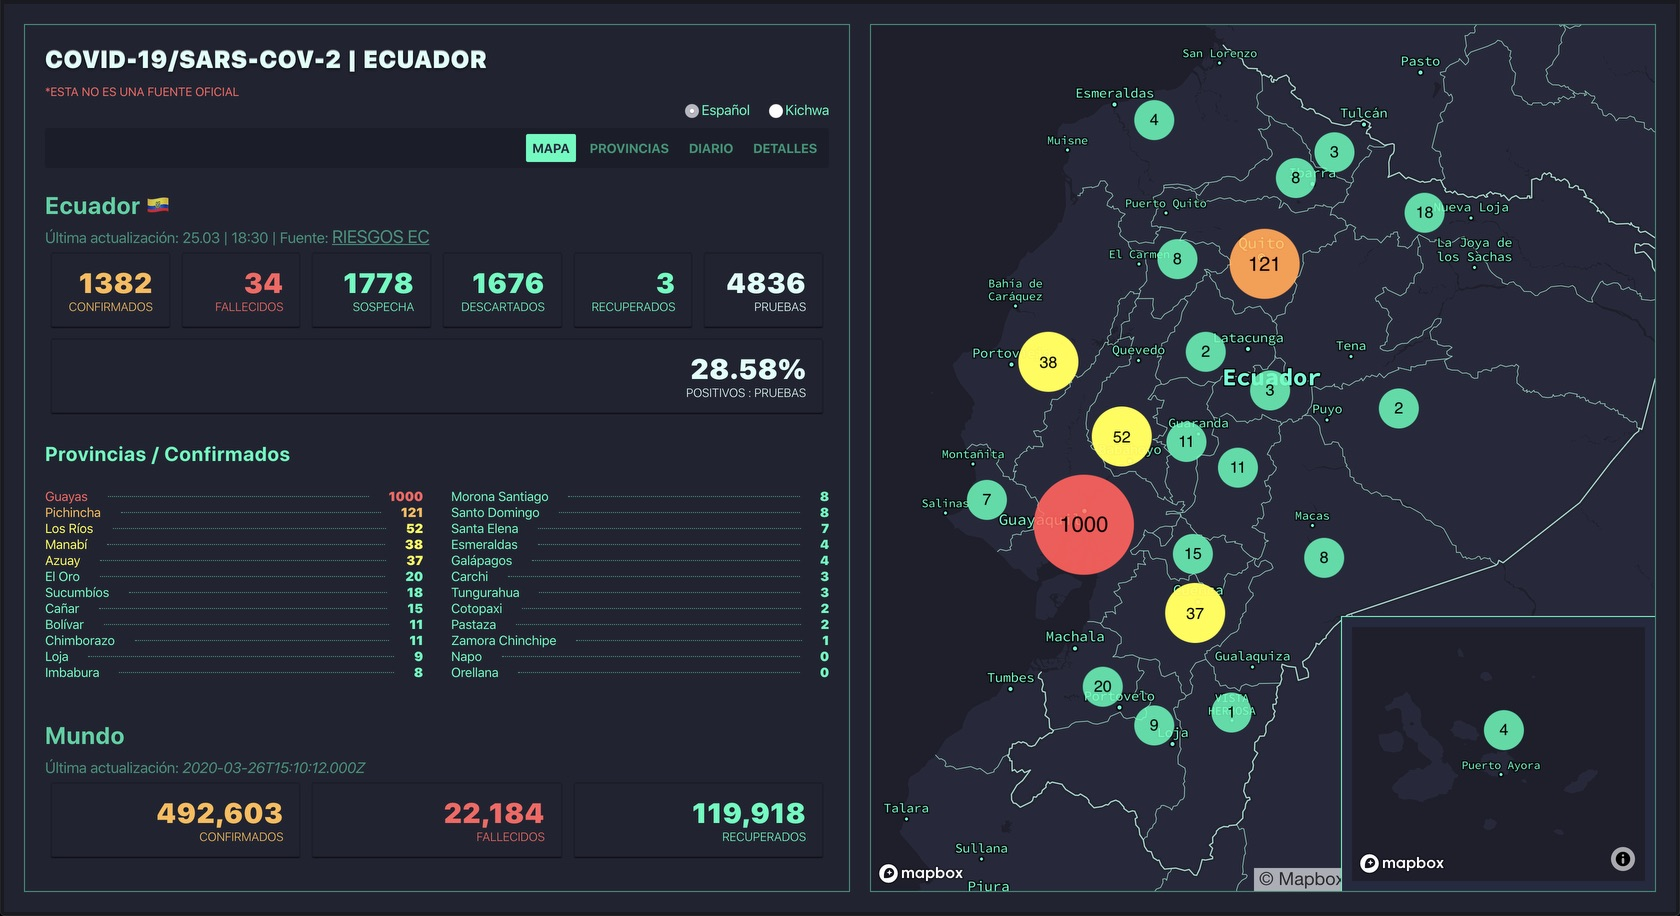
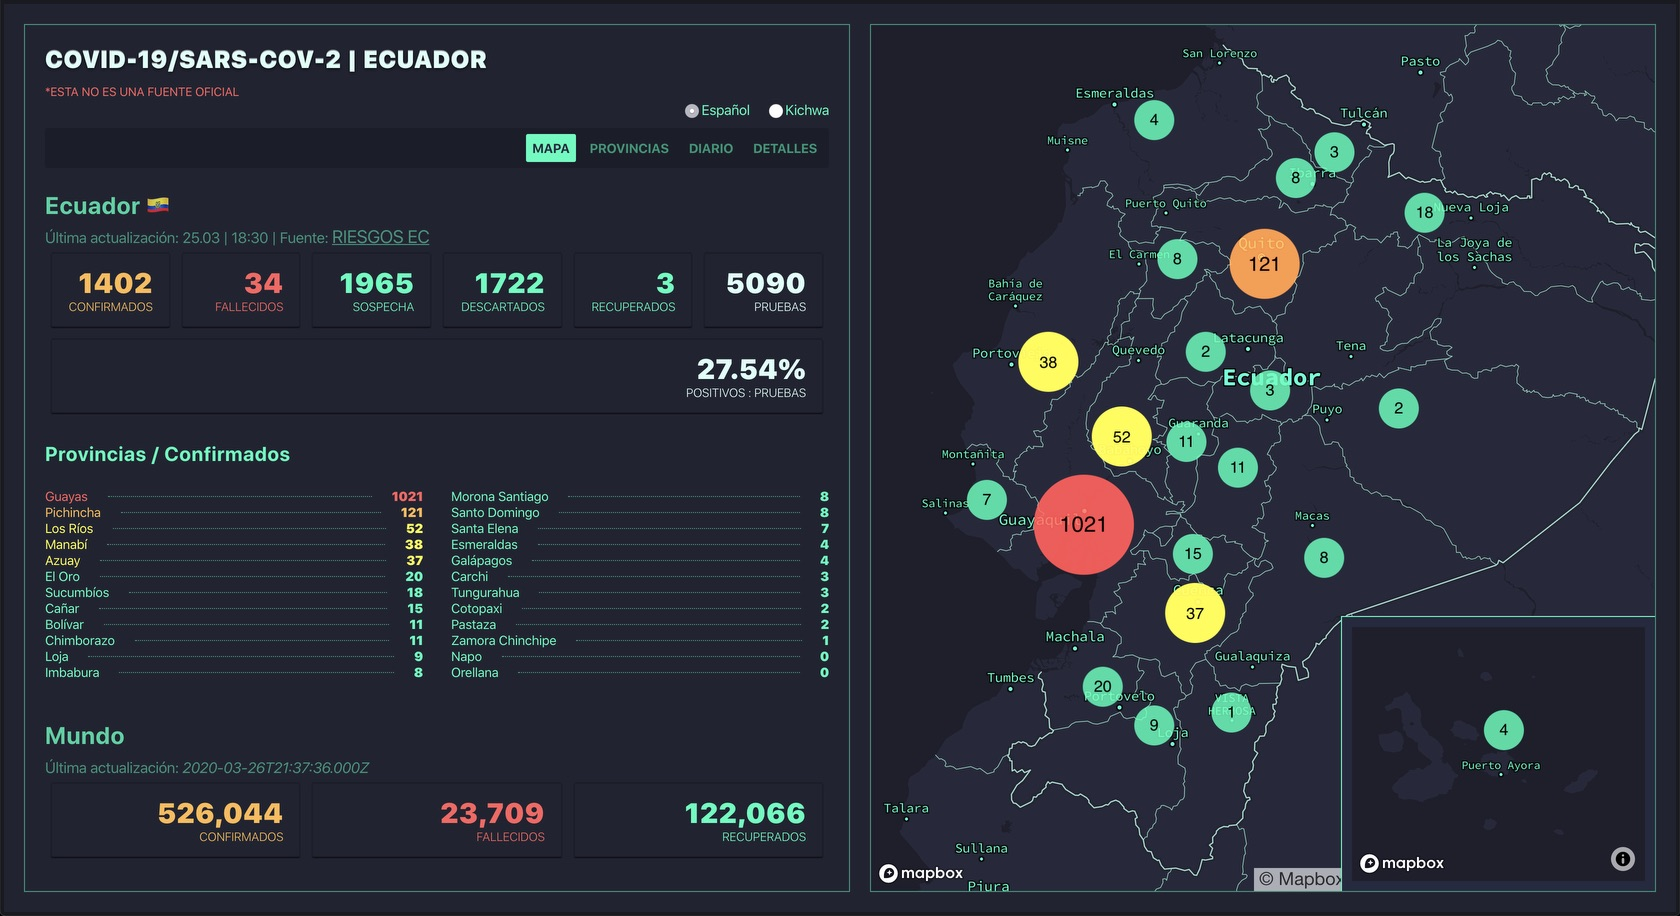
Add new data

diff --git a/src/components/Ecuador.js b/src/components/Ecuador.js
@@ -16,12 +16,12 @@ const Ecuador = ({ t }) => {
   });
 
   const dataTotals = {
-    confirmed: 1382,
+    confirmed: 1402,
     deaths: 34,
-    suspicious: 1778,
-    negatives: 1676,
+    suspicious: 1965,
+    negatives: 1722,
     recoveries: 3,
-    tests: 4836
+    tests: 5090
   };
 
   var result = (dataTotals.confirmed / dataTotals.tests) * 100;

diff --git a/src/components/Charts.js b/src/components/Charts.js
@@ -176,7 +176,7 @@ export function DetailsChart() {
     ],
     datasets: [
       {
-        data: [3, 1213, 74, 58, 34],
+        data: [3, 1214, 71, 81, 34],
         borderColor: 'hsla(164, 23%, 3%, 0.6)',
         backgroundColor: [
           'hsla(163, 72%, 100%, 0.9)',

diff --git a/src/db/EcuadorData.js b/src/db/EcuadorData.js
@@ -120,7 +120,7 @@ const data = [
     id: 9,
     name: 'Guayas',
     capital: 'Guayaquil',
-    confirmed: 1000,
+    confirmed: 1021,
     deaths: 0,
     compromised: 0,
     status: 'alert',
